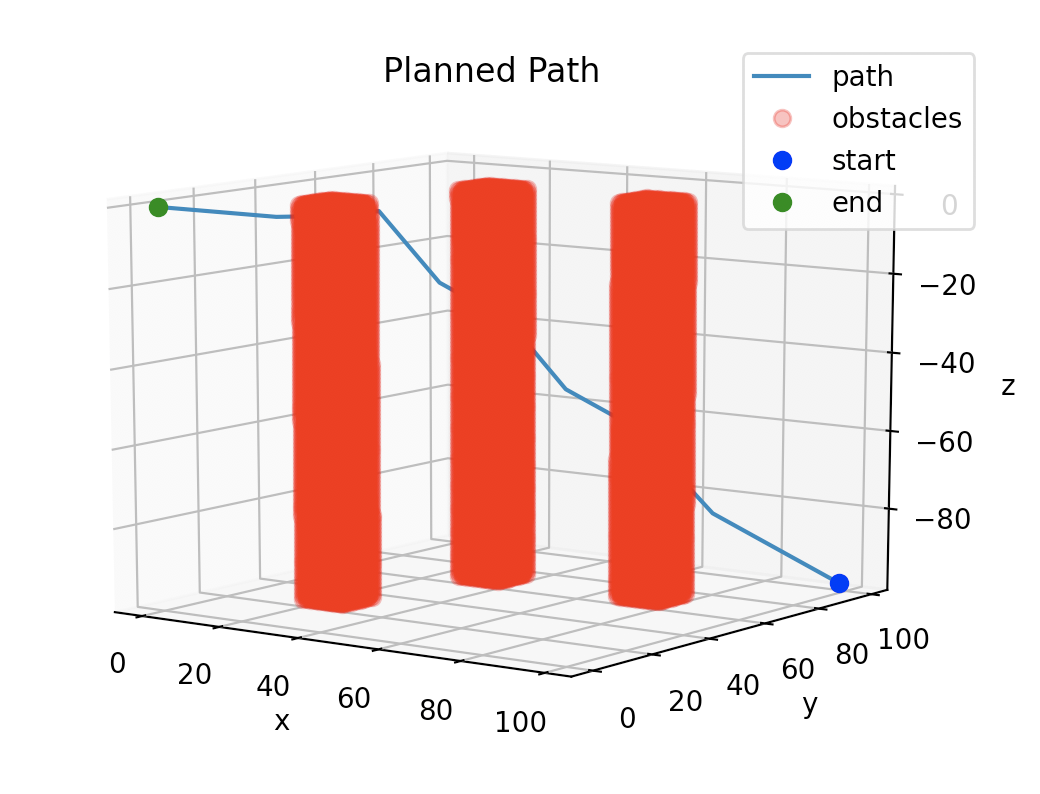
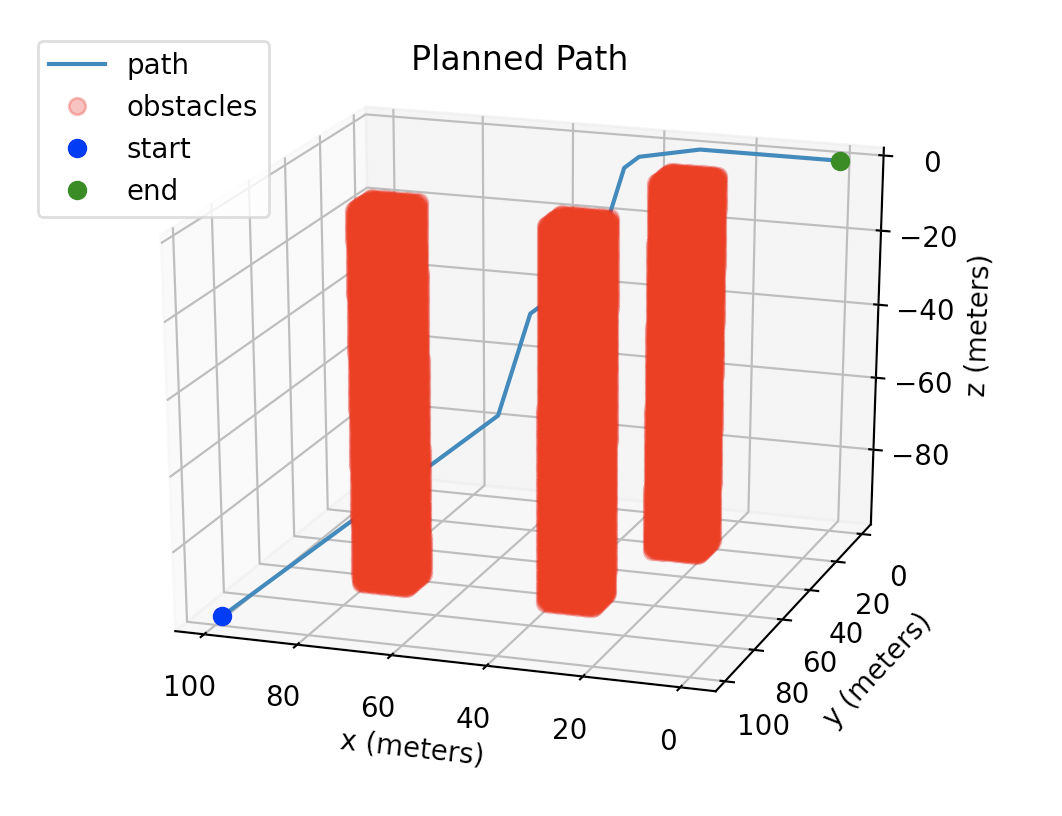
updated graphs with units

diff --git a/a_star.py b/a_star.py
@@ -319,9 +319,9 @@ if __name__ == '__main__':
     ax.plot3D(obstacle_xs, obstacle_ys, obstacle_zs, 'ro', alpha=0.3, label='obstacles')
     ax.plot3D([test_start[0]], [test_start[1]], [-test_start[2]], 'bo', label='start')
     ax.plot3D([test_goal[0]], [test_goal[1]], [-test_goal[2]], 'go', label='end')
-    ax.set_xlabel('x')
-    ax.set_ylabel('y')
-    ax.set_zlabel('z')
+    ax.set_xlabel('x (meters)')
+    ax.set_ylabel('y (meters)')
+    ax.set_zlabel('z (meters)')
     plt.title("Planned Path")
     ax.legend()
     plt.show()

diff --git a/lqr_with_sim.py b/lqr_with_sim.py
@@ -185,9 +185,9 @@ for i in range(50,100,1):
     els.append(rob.state[7])
 ax = plt.axes(projection='3d')
 ax.plot3D(xs,ys,zs, 'bo')
-ax.set_xlabel('x')
-ax.set_ylabel('y')
-ax.set_zlabel('z')
+ax.set_xlabel('x (meters)')
+ax.set_ylabel('y (meters)')
+ax.set_zlabel('z (meters)')
 plt.title("Simulation Output (Fake Control)")
 plt.show()
 
